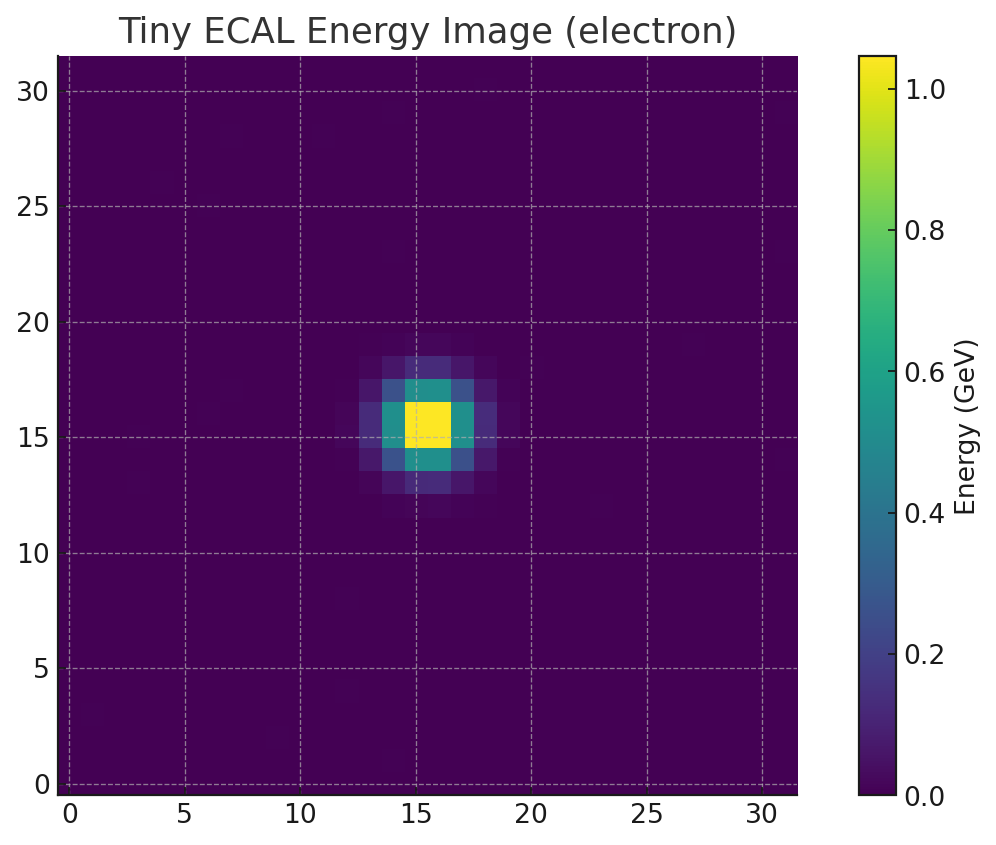
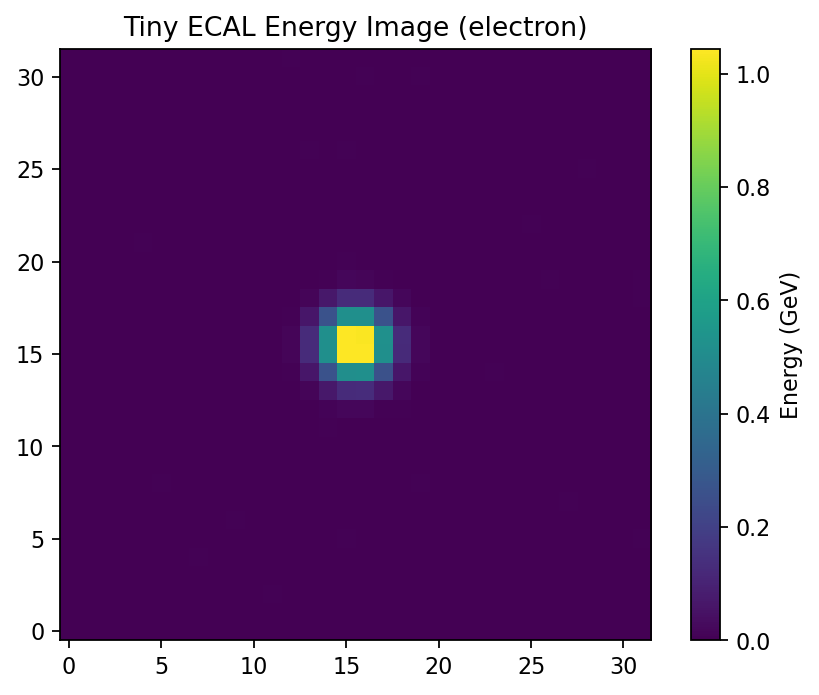
phy particle acc sim modes

diff --git a/pt-sim/pt_sim/demo_run.py b/pt-sim/pt_sim/demo_run.py
@@ -1,0 +1,33 @@
+import os, json
+from pathlib import Path
+import numpy as np
+import matplotlib.pyplot as plt
+from .paramsutra import load
+from .physics import simplified as ps
+from .physics import accurate as pa
+def run(cfg_path,outdir):
+  cfg=load(cfg_path); out=Path(outdir); out.mkdir(parents=True, exist_ok=True)
+  mode=getattr(cfg,'mode','simplified')
+  E=10.0; n=cfg.ecal_geom.n; depth=np.linspace(0, cfg.ecal_geom.depth_lambda, n)
+  if mode=='simplified':
+    longE=ps.longitudinal_profile(depth,cfg.shower.a,cfg.shower.b,E)
+    lat=ps.lateral_template(n,cfg.shower.lateral_sigma_cm,cfg.ecal_geom.cell_size_cm)
+    ecal=np.zeros((n,n))
+    for e in longE: ecal += e*lat
+    meas=np.clip(ecal*cfg.ecal_geom.sampling_fraction + np.random.normal(0.0,cfg.ecal_geom.noise_sigma,(n,n)), 0, None)
+    tag='simplified'
+  else:
+    longE=pa.longitudinal_em(depth,E,cfg.material.X0_cm,cfg.material.Ec_MeV)
+    lat=pa.lateral_em(n,cfg.ecal_geom.cell_size_cm,cfg.material.RM_cm)
+    e_true=np.zeros((n,n))
+    for e in longE: e_true += e*lat
+    rng=np.random.default_rng(123)
+    meas=pa.digitize_energy(e_true, cfg.material.sampling_fraction, cfg.material.light_yield_pe_per_GeV, cfg.material.electronics_noise_GeV, rng)
+    tag='accurate'
+  # Plots
+  plt.figure(); plt.imshow(meas,origin='lower',interpolation='nearest'); plt.colorbar(label='Energy (GeV)'); plt.title(f'ECAL Energy Image (electron, {tag})'); plt.savefig(out/f'ecal_image_{tag}.png',dpi=160,bbox_inches='tight'); plt.close()
+  plt.figure(); plt.plot(depth,longE); plt.xlabel('Depth (X0 units)'); plt.ylabel('Energy per layer (GeV)'); plt.title(f'Longitudinal Profile (electron, {tag})'); plt.savefig(out/f'longitudinal_profile_{tag}.png',dpi=160,bbox_inches='tight'); plt.close()
+  json.dump({'mode':mode,'electron_energy_GeV':E,'sum_measured_GeV':float(meas.sum()),'n_cells':int(n*n),'config_used':os.path.abspath(cfg_path)}, open(out/f'summary_{tag}.json','w'), indent=2)
+  print('Wrote outputs for', tag)
+if __name__=='__main__':
+  import sys; run(sys.argv[1] if len(sys.argv)>1 else '../configs/demo_electron.yaml', sys.argv[2] if len(sys.argv)>2 else '../out')

diff --git a/pt-sim/pt_sim/paramsutra.py b/pt-sim/pt_sim/paramsutra.py
@@ -10,6 +10,14 @@ class ECALGeom: n:int=32; cell_size_cm:float=1.0; moliere_radius_cm:float=2.0; d
 class ShowerParams: a:float=4.0; b:float=0.3; lateral_sigma_cm:float=1.2
 @dataclass
 class Config: global_pt:PTGlobal; electron:ElectronTarget; ecal_geom:ECALGeom; shower:ShowerParams
-def load(path:str)->Config:
+from dataclasses import dataclass
+@dataclass
+class Material:
+  name:str='PbWO4'; X0_cm:float=0.89; RM_cm:float=2.0; Ec_MeV:float=9.0; sampling_fraction:float=0.9; light_yield_pe_per_GeV:float=20000.0; electronics_noise_GeV:float=0.002
+def load(path:str):
   d=yaml.safe_load(open(path))
-  return Config(PTGlobal(**d.get('global_pt',{})), ElectronTarget(**d.get('electron',{})), ECALGeom(**d.get('ecal_geom',{})), ShowerParams(**d.get('shower',{})))
+  gp=PTGlobal(**d.get('global_pt',{})); el=ElectronTarget(**d.get('electron',{})); eg=ECALGeom(**d.get('ecal_geom',{})); sp=ShowerParams(**d.get('shower',{}))
+  cfg=Config(gp,el,eg,sp)
+  cfg.mode=d.get('mode','simplified')
+  cfg.material=Material(**d.get('material',{}))
+  return cfg

diff --git a/pt-sim/pt_sim/physics/accurate.py b/pt-sim/pt_sim/physics/accurate.py
@@ -1,0 +1,15 @@
+import numpy as np
+def _gamma_profile(depth,a,b,E):
+  xs=np.linspace(0, depth.max(), 4096); ys=(xs**(a-1))*np.exp(-b*xs); norm=np.trapz(ys,xs); return (depth**(a-1))*np.exp(-b*depth)*(E/norm)
+def longitudinal_em(depth,E_GeV,X0_cm,Ec_MeV):
+  E_MeV=E_GeV*1e3; a=1.0+0.5*np.log(E_MeV/max(Ec_MeV,1.0)); b=1.0; return _gamma_profile(depth,a,b,E_GeV)
+def lateral_em(n,cell_size_cm,RM_cm,core_frac=0.8):
+  idx=np.arange(n)-(n-1)/2; X,Y=np.meshgrid(idx,idx,indexing='xy'); X*=cell_size_cm; Y*=cell_size_cm
+  R2=X**2+Y**2; sc=0.3*RM_cm; st=1.0*RM_cm
+  Gc=np.exp(-0.5*R2/(sc**2)); Gt=np.exp(-0.5*R2/(st**2)); M=core_frac*Gc+(1.0-core_frac)*Gt; return M/M.sum()
+def digitize_energy(E_true,sampling,ly_pe_per_GeV,noise_GeV,rng):
+  mean_GeV=sampling*E_true; mean_pe=mean_GeV*ly_pe_per_GeV
+  pe=rng.normal(mean_pe, np.sqrt(np.maximum(mean_pe,1.0)))
+  pe=np.clip(pe,0.0,None)
+  sig_GeV=pe/ly_pe_per_GeV
+  return np.clip(sig_GeV + rng.normal(0.0, noise_GeV, size=E_true.shape), 0, None)

diff --git a/pt-sim/pt_sim/physics/simplified.py b/pt-sim/pt_sim/physics/simplified.py
@@ -1,0 +1,5 @@
+import numpy as np
+def longitudinal_profile(depth,a,b,E):
+  xs=np.linspace(0, depth.max(), 2048); ys=(xs**(a-1))*np.exp(-b*xs); norm=np.trapz(ys,xs); return (depth**(a-1))*np.exp(-b*depth)*(E/norm)
+def lateral_template(n,sigma,cell):
+  idx=np.arange(n)-(n-1)/2; X,Y=np.meshgrid(idx,idx,indexing='xy'); X*=cell; Y*=cell; G=np.exp(-0.5*(X**2+Y**2)/(sigma**2)); return G/G.sum()
